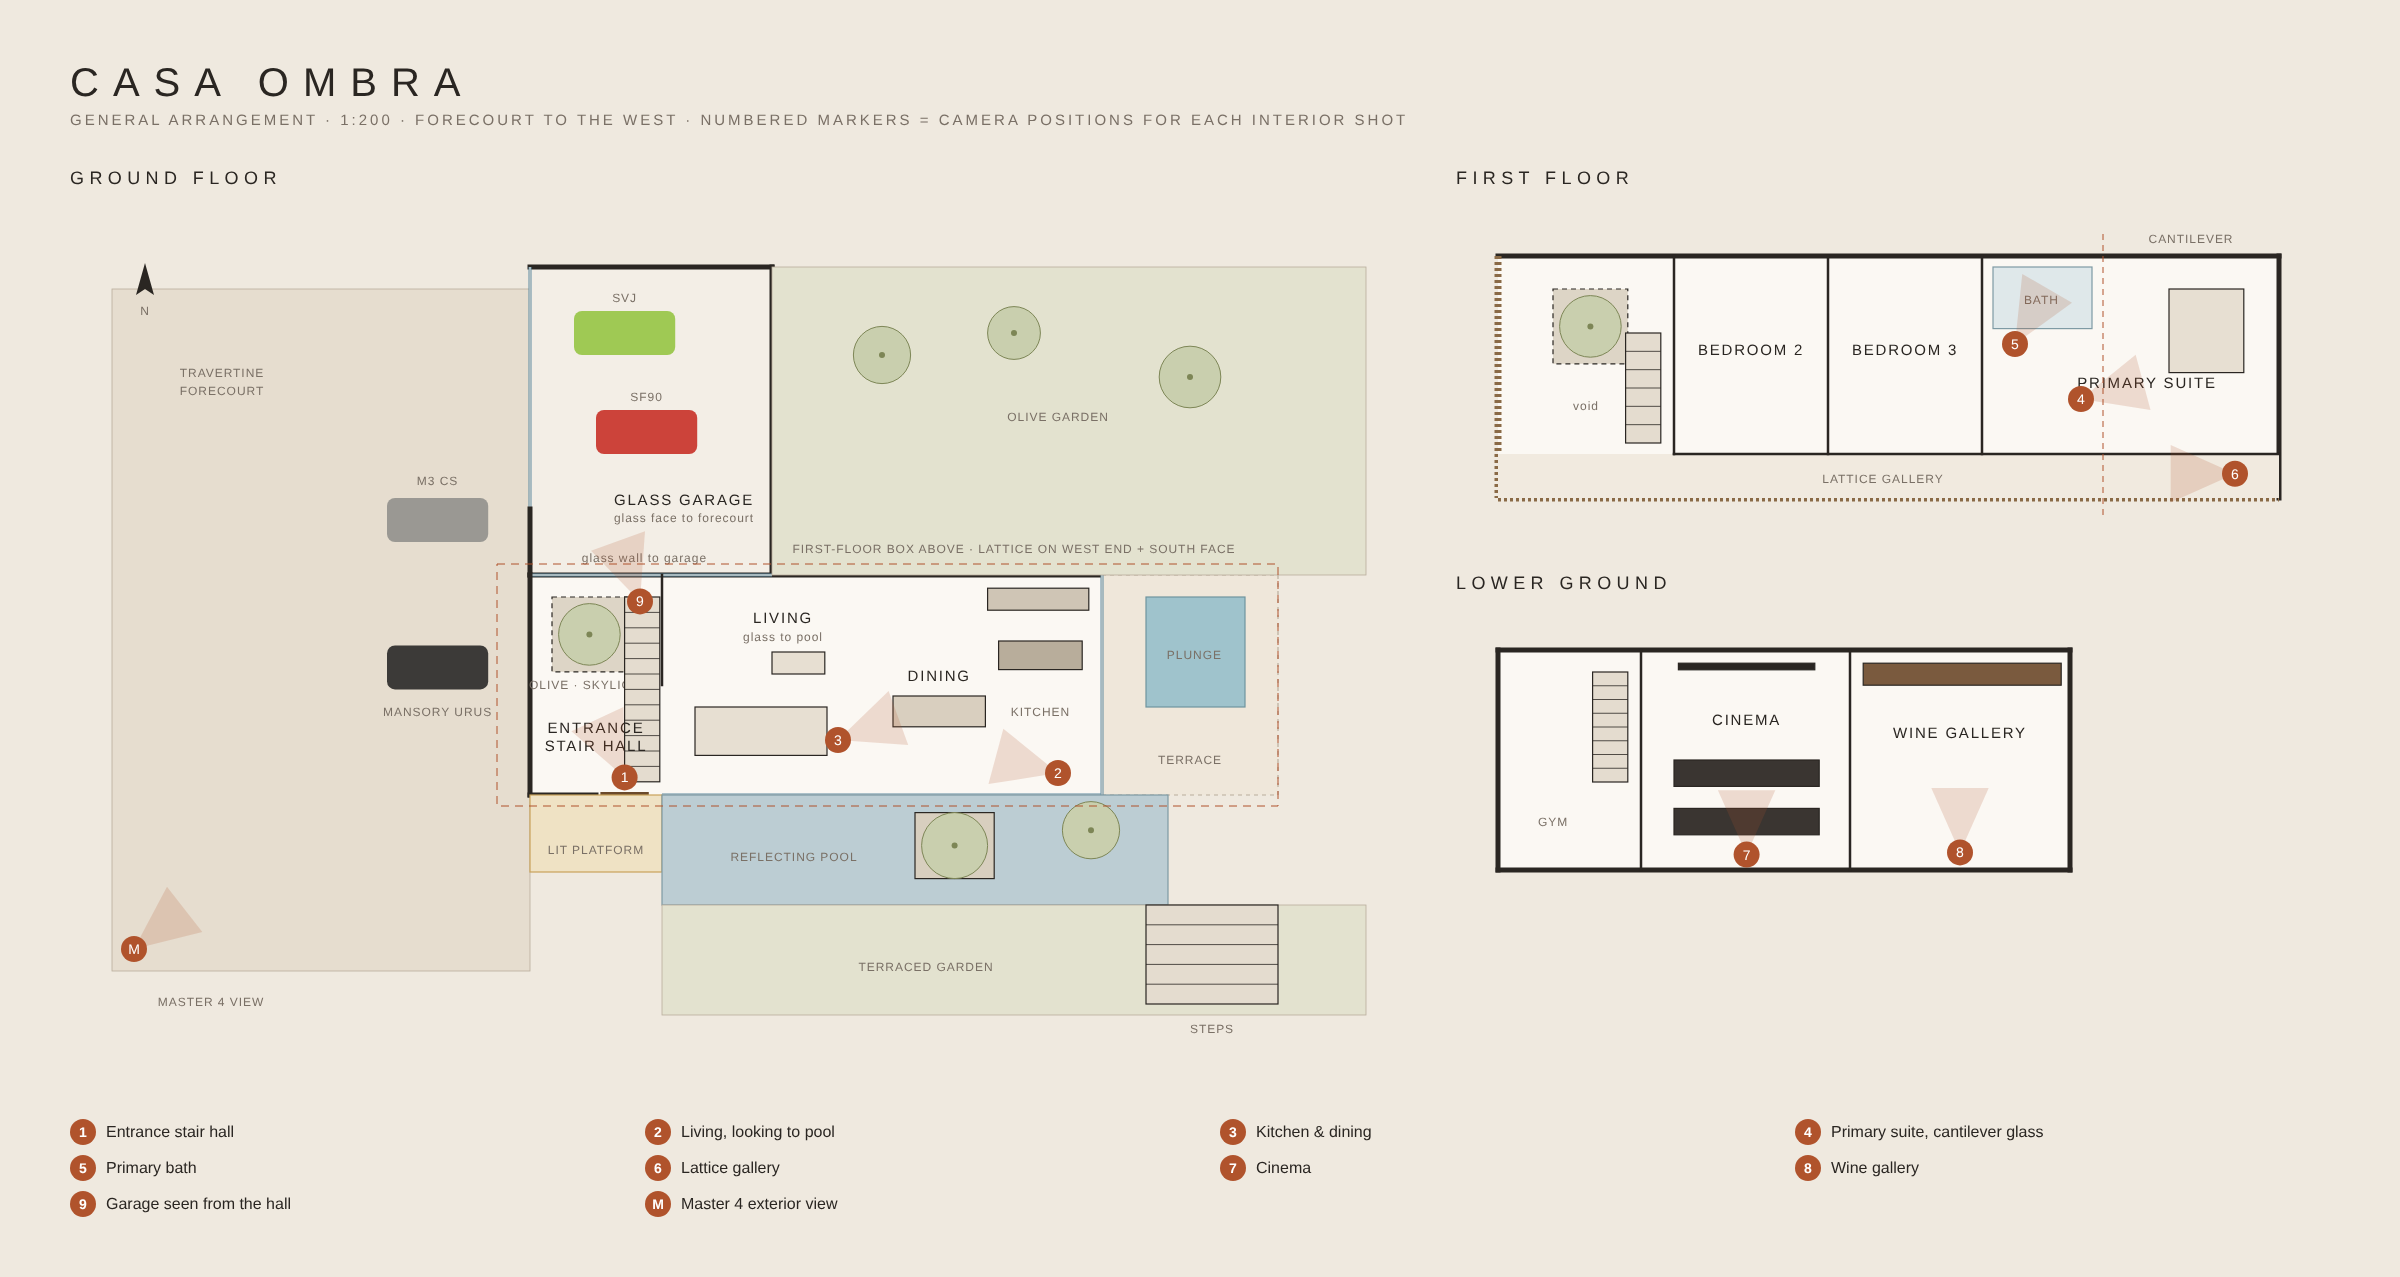
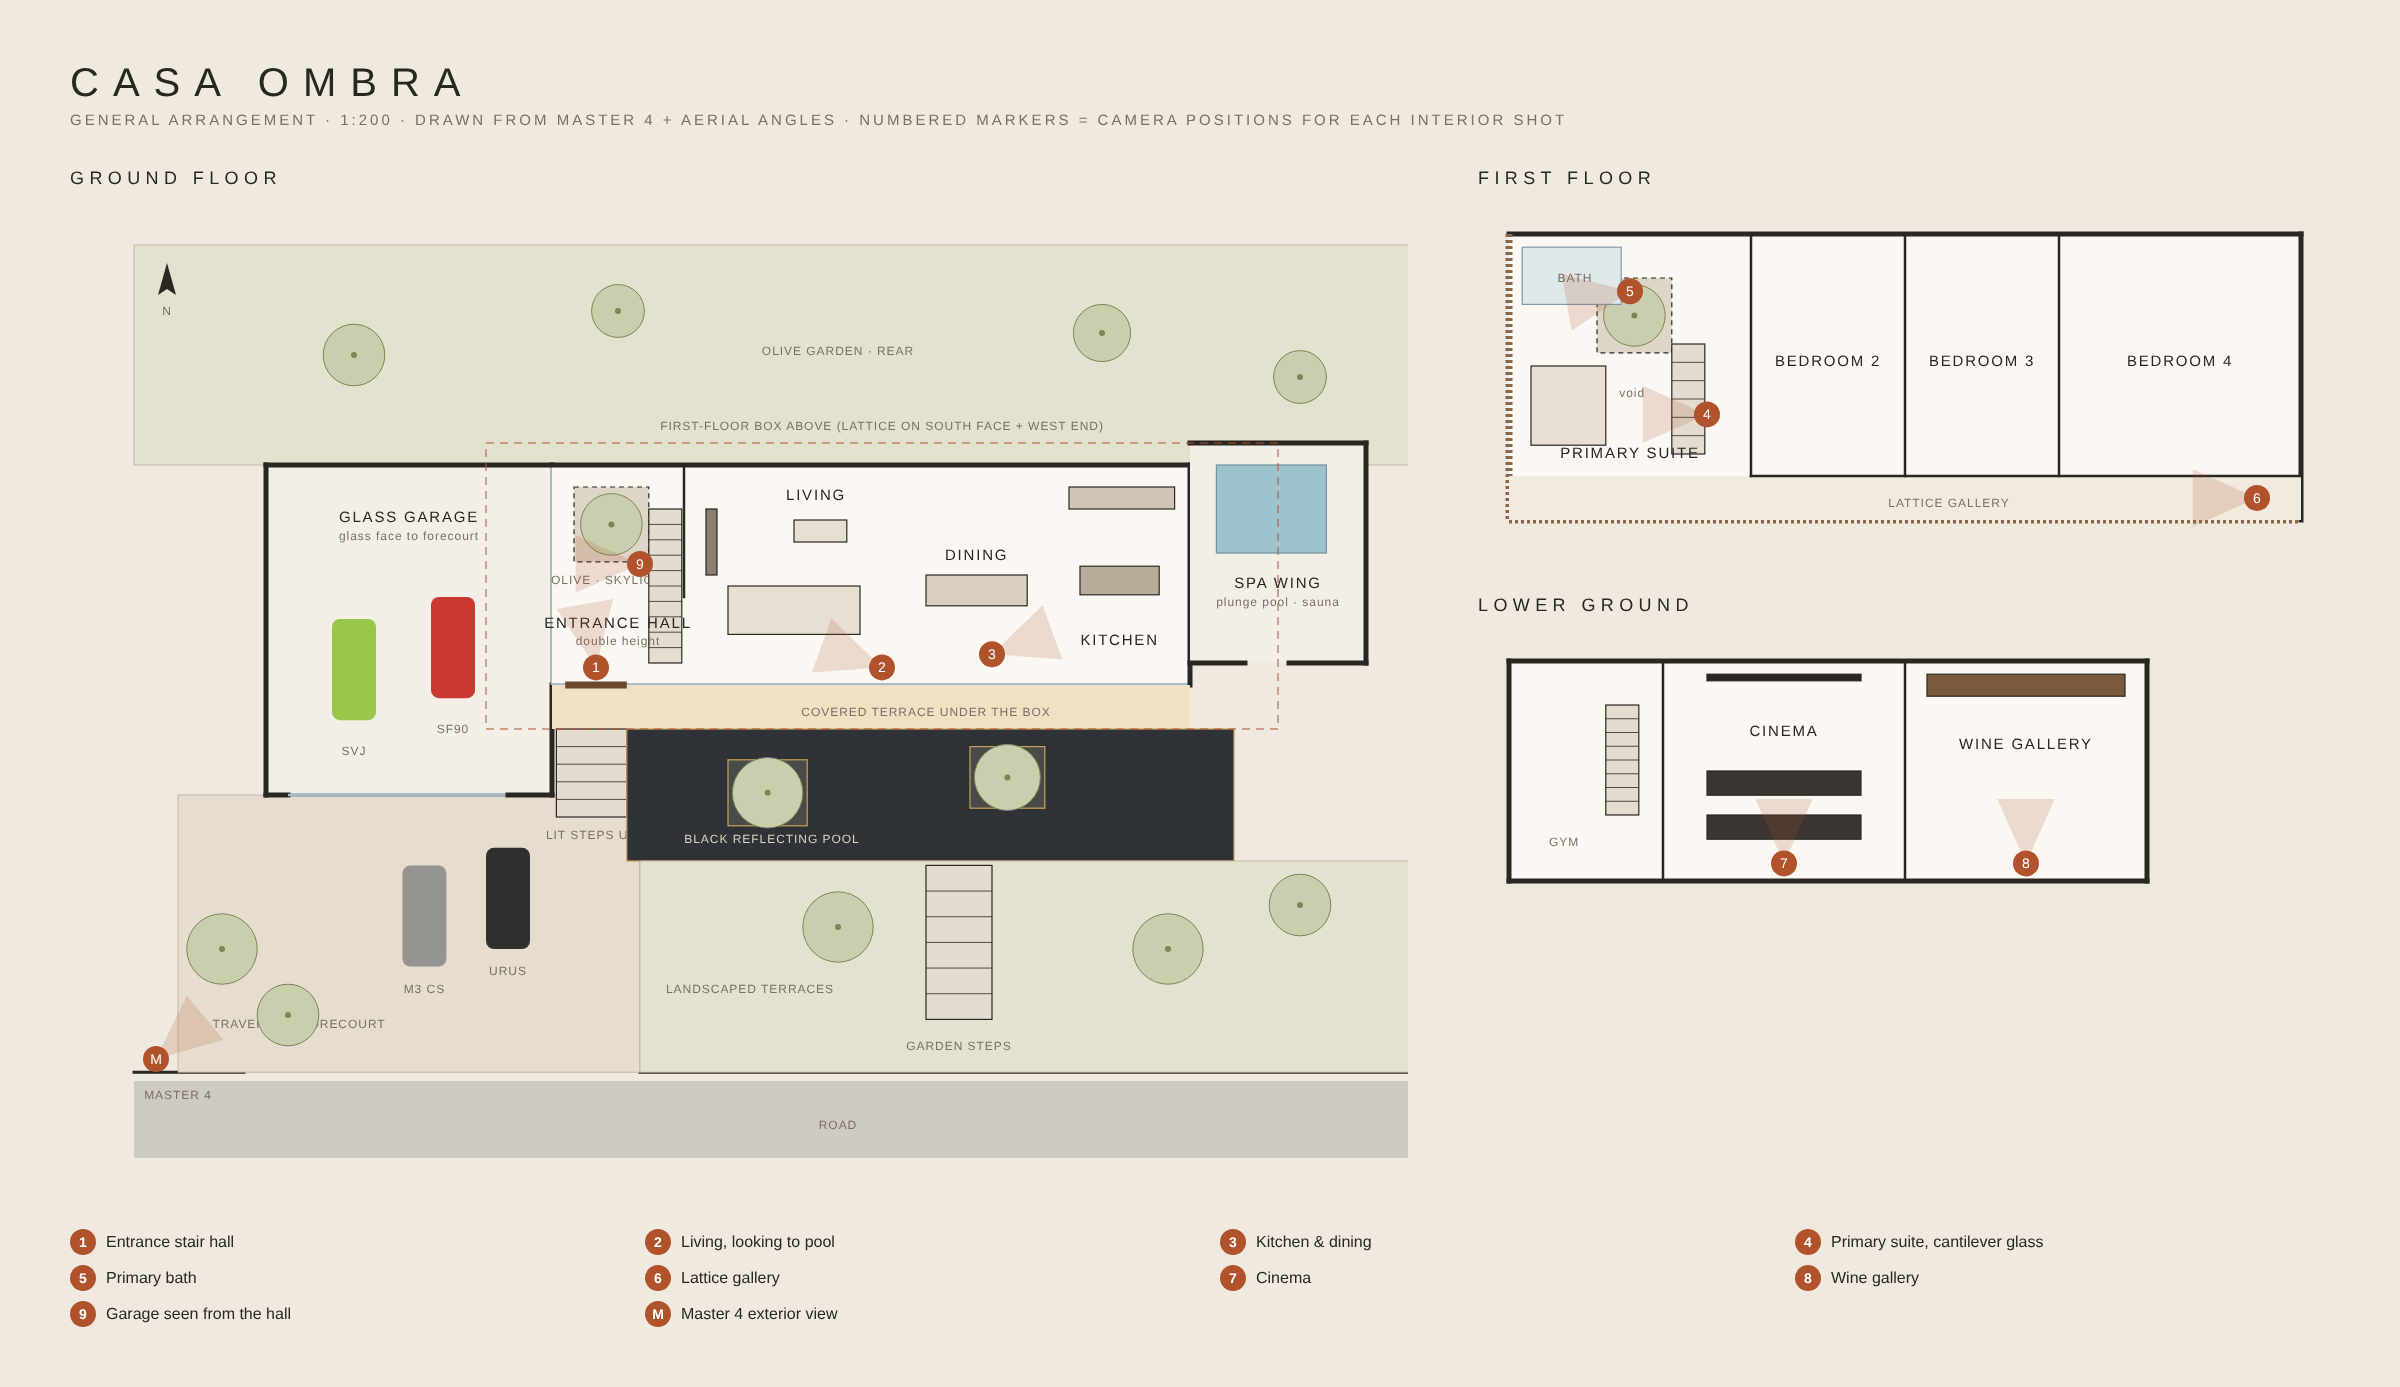
Casa Ombra: plan redrawn from new exterior angles; add steep aerial and long-front views
Claude-Session: https://claude.ai/code/session_01XZWwz38RPfRpcTZUtchytw

diff --git a/casa-ombra/plan/plan.html b/casa-ombra/plan/plan.html
@@ -12,7 +12,7 @@ svg text{font-family:Helvetica,Arial,sans-serif}
 .legend b{display:inline-block;width:26px;height:26px;border-radius:50%;background:#b0532c;color:#fff;text-align:center;line-height:26px;font-size:14px;margin-right:10px}
 </style></head><body><div class="wrap">
 <h1>CASA OMBRA</h1>
-<div class="sub">GENERAL ARRANGEMENT · 1:200 · FORECOURT TO THE WEST · NUMBERED MARKERS = CAMERA POSITIONS FOR EACH INTERIOR SHOT</div>
+<div class="sub">GENERAL ARRANGEMENT · 1:200 · DRAWN FROM MASTER 4 + AERIAL ANGLES · NUMBERED MARKERS = CAMERA POSITIONS FOR EACH INTERIOR SHOT</div>
 <div class="row" id="row"></div>
 <div class="legend" id="legend"></div>
 </div>
@@ -32,78 +32,86 @@ const cam=(n,x,y,ang)=>{const a=ang*Math.PI/180,L=3.2*S,sp=.42;const p=(d)=>`${x
 const north=(x,y)=>`<g transform="translate(${x*S},${y*S})"><polygon points="0,-26 9,6 0,0 -9,6" fill="${W}"/><text y="26" text-anchor="middle" class="sm">N</text></g>`;
 
 
-/* Coordinates in metres, north up. Forecourt to the WEST. Box long axis runs east.
-   Master-4 camera stands south-west of the forecourt looking north-east at the corner. */
-const OX=12, OY=10; const X=v=>v+OX, Y=v=>v+OY;
+
+/* Read from master 4 + aerial angles. North up. The long lattice face of the box looks SOUTH over the
+   reflecting pool to the landscaped strip and the road. Garage wing at the WEST end, projecting south
+   towards the forecourt. Low spa wing at the EAST end. Lit steps rise from the forecourt onto the
+   covered terrace between garage and pool; the front door is at the top of those steps. */
+const OX=8, OY=12; const X=v=>v+OX, Y=v=>v+OY;
 const R=(x,y,w,h,o)=>r(X(x),Y(y),w,h,o), Wl=(a,b,c,d,t)=>wall(X(a),Y(b),X(c),Y(d),t), G=(a,b,c,d)=>glass(X(a),Y(b),X(c),Y(d)),
       T=(x,y,s,c)=>t(X(x),Y(y),s,c), TR=(x,y,rad)=>tree(X(x),Y(y),rad), C=(n,x,y,a)=>cam(n,X(x),Y(y),a),
       ST=(x,y,w,n,l)=>stair(X(x),Y(y),w,n,l);
-const carH=(x,y,c,l)=>`<rect x="${X(x)*S}" y="${Y(y)*S}" width="${4.6*S}" height="${2*S}" rx="8" fill="${c}" opacity=".85"/>`;
+const carV=(x,y,c)=>`<rect x="${X(x)*S}" y="${Y(y)*S}" width="${2*S}" height="${4.6*S}" rx="8" fill="${c}" opacity=".9"/>`;
 let g='';
-// forecourt (west)
-g+=R(-11,-7,19,31,{f:'#e6ddcf',s:'#b9ad9c',sw:.8})+T(-6,-3,'TRAVERTINE','sm')+T(-6,-2.2,'FORECOURT','sm');
-g+=carH(1.5,2.5,'#8c8c88')+T(3.8,1.9,'M3 CS','sm')+carH(1.5,9.2,'#1d1d1d')+T(3.8,12.4,'MANSORY URUS','sm');
-// garage wing (low travertine volume running north from the box end)
-g+=R(8,-8,11,14,{f:'#f3eee6',s:'none'})+Wl(8,-8,19,-8)+Wl(19,-8,19,6)+G(8,-8,8,3)+Wl(8,3,8,6);
-g+=`<rect x="${X(10)*S}" y="${Y(-6)*S}" width="${4.6*S}" height="${2*S}" rx="8" fill="#8fc23a" opacity=".85"/>`+T(12.3,-6.4,'SVJ','sm');
-g+=`<rect x="${X(11)*S}" y="${Y(-1.5)*S}" width="${4.6*S}" height="${2*S}" rx="8" fill="#c4251b" opacity=".85"/>`+T(13.3,-1.9,'SF90','sm');
-g+=T(15,2.8,'GLASS GARAGE')+T(15,3.6,'glass face to forecourt','sm');
-// ground floor under the box
-g+=R(8,6,26,10,{f:'#fbf8f3',s:'none'})+Wl(8,6,34,6)+G(8,6,19,6)+Wl(8,6,8,16)+G(14,16,34,16)+Wl(8,16,11,16);
-// entrance hall x8..14
-g+=Wl(14,6,14,11,2.5)+R(9,7,3.4,3.4,{f:'#ddd5c6',d:'5 4'})+TR(10.7,8.7,1.4)+T(10.7,11.2,'OLIVE · SKYLIGHT','sm');
-g+=ST(12.3,7,1.6,12,8.4)+T(11,13.2,'ENTRANCE')+T(11,14,'STAIR HALL','lab');
-g+=`<line x1="${X(11.2)*S}" y1="${Y(16)*S}" x2="${X(13.4)*S}" y2="${Y(16)*S}" stroke="#6b4a2b" stroke-width="6"/>`+T(12.3,17.2,'PIVOT DOOR','sm');
-g+=T(13.2,5.4,'glass wall to garage','sm');
+// north garden
+g+=R(-6,-11,58,10,{f:'#e3e2cf',s:'#b9ad9c',sw:.8})+T(26,-6,'OLIVE GARDEN · REAR','sm')+TR(4,-6,1.4)+TR(16,-8,1.2)+TR(38,-7,1.3)+TR(47,-5,1.2);
+// road along south
+g+=R(-6,27,58,3.5,{f:'#cfcac2',s:'none'})+T(26,29.2,'ROAD','sm');
+g+=Wl(-6,26.6,-1,26.6,3)+Wl(17,26.6,52,26.6,3);
+// forecourt (south-west, open to road)
+g+=R(-4,14,21,12.6,{f:'#e6ddcf',s:'#b9ad9c',sw:.8})+T(1.5,24.6,'TRAVERTINE FORECOURT','sm');
+g+=carV(6.2,17.2,'#8c8c88')+T(7.2,23,'M3 CS','sm')+carV(10,16.4,'#1d1d1d')+T(11,22.2,'URUS','sm');
+g+=TR(-2,21,1.6)+TR(1,24,1.4);
+// GARAGE WING x0..13 y-1..14  (glass face south to forecourt)
+g+=R(0,-1,13,15,{f:'#f3eee6',s:'none'})+Wl(0,-1,13,-1)+Wl(0,-1,0,14)+Wl(0,14,1,14)+G(1,14,11,14)+Wl(11,14,13,14)+Wl(13,9,13,14);
+g+=carV(3,6,'#8fc23a')+T(4,12.2,'SVJ','sm')+carV(7.5,5,'#c4251b')+T(8.5,11.2,'SF90','sm');
+g+=T(6.5,1.6,'GLASS GARAGE')+T(6.5,2.4,'glass face to forecourt','sm');
+// glass wall garage -> hall
+g+=G(13,-1,13,9);
+// GROUND FLOOR under box: enclosure x13..42 y-1..9, terrace y9..11 under overhang
+g+=R(13,-1,29,10,{f:'#fbf8f3',s:'none'})+Wl(13,-1,42,-1)+G(13,9,42,9)+Wl(42,-1,42,9);
+g+=R(13,9,29,2,{f:'#efe2c4',s:'none'})+T(30,10.4,'COVERED TERRACE UNDER THE BOX','sm');
+// entrance hall x13..19
+g+=Wl(19,-1,19,5,2.5)+R(14,0,3.4,3.4,{f:'#ddd5c6',d:'5 4'})+TR(15.7,1.7,1.4)+T(15.7,4.4,'OLIVE · SKYLIGHT','sm');
+g+=ST(17.4,1,1.5,10,7)+T(16,6.4,'ENTRANCE HALL')+T(16,7.2,'double height','sm');
+g+=`<line x1="${X(13.6)*S}" y1="${Y(9)*S}" x2="${X(16.4)*S}" y2="${Y(9)*S}" stroke="#6b4a2b" stroke-width="7"/>`;
+// lit steps from forecourt up to terrace
+g+=ST(13.2,11,3.2,5,4)+T(14.8,16,'LIT STEPS UP','sm')+T(15,12.8,'','sm');
 // living / dining / kitchen
-g+=R(15.5,12,6,2.2,{f:'#e7dfd2'})+R(19,9.5,2.4,1,{f:'#e7dfd2'})+T(19.5,8.2,'LIVING')+T(19.5,9,'glass to pool','sm');
-g+=R(24.5,11.5,4.2,1.4,{f:'#d9cfbf'})+T(26.6,10.8,'DINING');
-g+=R(28.8,6.6,4.6,1,{f:'#cfc5b5'})+R(29.3,9,3.8,1.3,{f:'#b8ad9b'})+T(31.2,12.4,'KITCHEN','sm');
-// east: cantilever over terrace + plunge
-g+=R(34,6,8,10,{f:'#efe7da',s:'#b9ad9c',d:'4 4'})+G(34,6,34,16);
-g+=R(36,7,4.5,5,{f:'#9fc3cc',s:'#6f949e'})+T(38.2,9.8,'PLUNGE','sm')+T(38,14.6,'TERRACE','sm');
-// lit platform at corner, reflecting pool along south face
-g+=R(8,16,6,3.5,{f:'#efe2c4',s:'#c9a25a'})+T(11,18.7,'LIT PLATFORM','sm');
-g+=R(14,16,23,5,{f:'#bccdd3',s:'#7e9aa4'})+T(20,19,'REFLECTING POOL','sm');
-g+=R(25.5,16.8,3.6,3,{f:'#d8cfbf'})+TR(27.3,18.3,1.5)+TR(33.5,17.6,1.3);
-// terraced garden + steps south-east
-g+=R(14,21,32,5,{f:'#e3e2cf',s:'#b9ad9c',sw:.8})+ST(36,21,6,5,4.5)+T(39,26.8,'STEPS','sm')+T(26,24,'TERRACED GARDEN','sm');
-// garden north
-g+=R(19,-8,27,14,{f:'#e3e2cf',s:'#b9ad9c',sw:.8})+T(32,-1,'OLIVE GARDEN','sm')+TR(24,-4,1.3)+TR(30,-5,1.2)+TR(38,-3,1.4);
-// first-floor box outline
-g+=R(6.5,5.5,35.5,11,{s:'#b0532c',sw:1,d:'8 6'})+T(30,5,'FIRST-FLOOR BOX ABOVE · LATTICE ON WEST END + SOUTH FACE','sm');
-// master 4 camera
-g+=`<g>${cam('M',X(-10),Y(23),-38)}</g>`+T(-6.5,25.6,'MASTER 4 VIEW','sm');
-// interior cameras
-g+=C(1,12.3,15.2,-115);  // hall: just inside door looking north-west, garage glass ahead-left
-g+=C(2,32,15,-165);      // living looking west along the glass
-g+=C(3,22,13.5,-20);     // kitchen
-g+=C(9,13,7.2,-110);     // garage through glass from hall
-g+=north(X(-9.5)-0,Y(-7));
+g+=R(21,4.5,6,2.2,{f:'#e7dfd2'})+R(24,1.5,2.4,1,{f:'#e7dfd2'})+R(20,1,.5,3,{f:'#8a7f72'})+T(25,0.6,'LIVING');
+g+=R(30,4,4.6,1.4,{f:'#d9cfbf'})+T(32.3,3.3,'DINING');
+g+=R(36.5,0,4.8,1,{f:'#cfc5b5'})+R(37,3.6,3.6,1.3,{f:'#b8ad9b'})+T(38.8,7.2,'KITCHEN');
+// reflecting pool (south of terrace, wraps to forecourt edge)
+g+=R(16.4,11,27.6,6,{f:'#2f3236',s:'#c9a25a'})+T(23,16.2,'BLACK REFLECTING POOL','sm').replace('class="sm"','class="sm" style="fill:#d9d2c6"');
+g+=R(21,12.4,3.6,3,{f:'#4a4a48',s:'#c9a25a'})+TR(22.8,13.9,1.6)+R(32,11.8,3.4,2.8,{f:'#4a4a48',s:'#c9a25a'})+TR(33.7,13.2,1.5);
+// landscaped strip + steps down to road
+g+=R(17,17,35,9.6,{f:'#e3e2cf',s:'#b9ad9c',sw:.8})+ST(30,17.2,3,6,7)+T(31.5,25.6,'GARDEN STEPS','sm')+TR(26,20,1.6)+TR(41,21,1.6)+TR(47,19,1.4)+T(22,23,'LANDSCAPED TERRACES','sm');
+// east spa wing x42..50 y-2..8
+g+=R(42,-2,8,10,{f:'#f3eee6',s:'none'})+Wl(42,-2,50,-2)+Wl(50,-2,50,8)+Wl(42,8,44.5,8)+Wl(46.5,8,50,8);
+g+=R(43.2,-1,5,4,{f:'#9fc3cc',s:'#6f949e'})+T(46,4.6,'SPA WING')+T(46,5.4,'plunge pool · sauna','sm');
+// first-floor box outline: x10..46 y-2..11 (overhangs west over garage junction and terrace)
+g+=R(10,-2,36,13,{s:'#b0532c',sw:1,d:'8 6'})+T(28,-2.6,'FIRST-FLOOR BOX ABOVE (LATTICE ON SOUTH FACE + WEST END)','sm');
+// cameras
+g+=cam('M',X(-5),Y(26),-40)+T(-4,27.8,'MASTER 4','sm');
+g+=C(1,15,8.2,-100);    // hall from front door: olive + stair ahead, garage glass left
+g+=C(9,17,3.5,180);     // garage through the glass wall
+g+=C(2,28,8.2,-160);    // living looking west
+g+=C(3,33,7.6,-20);     // kitchen
+g+=north(X(-4.5),Y(-9));
 
 let f='';
-f+=R(6.5,5.5,35.5,11,{f:'#fbf8f3',s:'none'})+Wl(6.5,5.5,42,5.5)+Wl(42,5.5,42,16.5);
-f+=`<line x1="${X(6.5)*S}" y1="${Y(16.5)*S}" x2="${X(42)*S}" y2="${Y(16.5)*S}" stroke="#8a6a46" stroke-width="7" stroke-dasharray="3 3"/>`;
-f+=`<line x1="${X(6.5)*S}" y1="${Y(5.5)*S}" x2="${X(6.5)*S}" y2="${Y(16.5)*S}" stroke="#8a6a46" stroke-width="7" stroke-dasharray="3 3"/>`;
-f+=R(6.5,14.5,35.5,2,{f:'#f1eadf',s:'none'})+T(24,15.8,'LATTICE GALLERY','sm');
-f+=R(9,7,3.4,3.4,{f:'#ddd5c6',d:'5 4'})+TR(10.7,8.7,1.4)+ST(12.3,9,1.6,6,5)+T(10.5,12.5,'void','sm');
-f+=Wl(14.5,5.5,14.5,14.5,2.5)+Wl(21.5,5.5,21.5,14.5,2.5)+Wl(28.5,5.5,28.5,14.5,2.5)+Wl(14.5,14.5,42,14.5,2.5);
-f+=T(18,10,'BEDROOM 2')+T(25,10,'BEDROOM 3')+T(36,11.5,'PRIMARY SUITE');
-f+=R(29,6,4.5,2.8,{f:'#dfe8ea',s:'#7e9aa4'})+T(31.2,7.7,'BATH','sm')+R(37,7,3.4,3.8,{f:'#e7dfd2'});
-f+=`<line x1="${X(34)*S}" y1="${Y(4.5)*S}" x2="${X(34)*S}" y2="${Y(17.5)*S}" stroke="#b0532c" stroke-dasharray="6 5"/>`+T(38,4.9,'CANTILEVER','sm');
-f+=C(4,33,12,-15)+C(5,30,9.5,-60)+C(6,40,15.4,180);
-const firstSvg=`<g transform="translate(${-(OX+5.5)*S},${-(OY+4)*S})">${f}</g>`;
+f+=R(10,-2,36,13,{f:'#fbf8f3',s:'none'})+Wl(10,-2,46,-2)+Wl(46,-2,46,11);
+f+=`<line x1="${X(10)*S}" y1="${Y(11)*S}" x2="${X(46)*S}" y2="${Y(11)*S}" stroke="#8a6a46" stroke-width="7" stroke-dasharray="3 3"/>`;
+f+=`<line x1="${X(10)*S}" y1="${Y(-2)*S}" x2="${X(10)*S}" y2="${Y(11)*S}" stroke="#8a6a46" stroke-width="7" stroke-dasharray="3 3"/>`;
+f+=R(10,9,36,2,{f:'#f1eadf',s:'none'})+T(30,10.4,'LATTICE GALLERY','sm');
+f+=Wl(21,-2,21,9,2.5)+Wl(28,-2,28,9,2.5)+Wl(35,-2,35,9,2.5)+Wl(21,9,46,9,2.5);
+f+=R(14,0,3.4,3.4,{f:'#ddd5c6',d:'5 4'})+TR(15.7,1.7,1.4)+ST(17.4,3,1.5,6,5)+T(15.6,5.4,'void','sm');
+f+=R(10.6,-1.4,4.5,2.6,{f:'#dfe8ea',s:'#7e9aa4'})+T(13,0.2,'BATH','sm');
+f+=R(11,4,3.4,3.6,{f:'#e7dfd2'})+T(15.5,8.2,'PRIMARY SUITE','lab');
+f+=T(24.5,4,'BEDROOM 2')+T(31.5,4,'BEDROOM 3')+T(40.5,4,'BEDROOM 4');
+f+=C(4,19,6.2,180)+C(5,15.5,0.6,170)+C(6,44,10,180);
+const firstSvg=`<g transform="translate(${-(OX+9.5)*S},${-(OY-2.5)*S})">${f}</g>`;
 
 let l='';
-l+=R(8,6,26,10,{f:'#fbf8f3',s:'none'})+Wl(8,6,34,6)+Wl(8,16,34,16)+Wl(8,6,8,16)+Wl(34,6,34,16);
-l+=ST(12.3,7,1.6,8,5)+Wl(14.5,6,14.5,16,2.5)+Wl(24,6,24,16,2.5);
-l+=R(16,11,6.6,1.2,{f:'#3a3531'})+R(16,13.2,6.6,1.2,{f:'#3a3531'})+R(16.2,6.6,6.2,.3,{f:'#2a2622'})+T(19.3,9.4,'CINEMA');
-l+=R(24.6,6.6,9,1,{f:'#7a5a3e'})+T(29,10,'WINE GALLERY')+T(10.5,14,'GYM','sm');
-l+=C(7,19.3,15.3,-90)+C(8,29,15.2,-90);
-const lowSvg=`<g transform="translate(${-(OX+7)*S},${-(OY+5)*S})">${l}</g>`;
+l+=R(13,-1,29,10,{f:'#fbf8f3',s:'none'})+Wl(13,-1,42,-1)+Wl(13,9,42,9)+Wl(13,-1,13,9)+Wl(42,-1,42,9);
+l+=ST(17.4,1,1.5,8,5)+Wl(20,-1,20,9,2.5)+Wl(31,-1,31,9,2.5);
+l+=R(22,4,7,1.1,{f:'#3a3531'})+R(22,6,7,1.1,{f:'#3a3531'})+R(22,-.4,7,.3,{f:'#2a2622'})+T(25.5,2.4,'CINEMA');
+l+=R(32,-.4,9,1,{f:'#7a5a3e'})+T(36.5,3,'WINE GALLERY')+T(15.5,7.4,'GYM','sm');
+l+=C(7,25.5,8.2,-90)+C(8,36.5,8.2,-90);
+const lowSvg=`<g transform="translate(${-(OX+12.5)*S},${-(OY-1.5)*S})">${l}</g>`;
 document.getElementById('row').innerHTML=
- `<div class="panel"><h2>GROUND FLOOR</h2>${svg(58,38,g)}</div>`+
- `<div class="panel"><h2>FIRST FLOOR</h2>${svg(37,13,firstSvg)}<h2 style="margin-top:40px">LOWER GROUND</h2>${svg(28,12,lowSvg)}</div>`;
+ `<div class="panel"><h2>GROUND FLOOR</h2>${svg(59,43,g)}</div>`+
+ `<div class="panel"><h2>FIRST FLOOR</h2>${svg(37,14,firstSvg)}<h2 style="margin-top:40px">LOWER GROUND</h2>${svg(30,11,lowSvg)}</div>`;
 const L=[['1','Entrance stair hall'],['2','Living, looking to pool'],['3','Kitchen & dining'],['4','Primary suite, cantilever glass'],['5','Primary bath'],['6','Lattice gallery'],['7','Cinema'],['8','Wine gallery'],['9','Garage seen from the hall'],['M','Master 4 exterior view']];
 document.getElementById('legend').innerHTML=L.map(([n,s])=>`<div><b>${n}</b>${s}</div>`).join('');
 </script></body></html>
